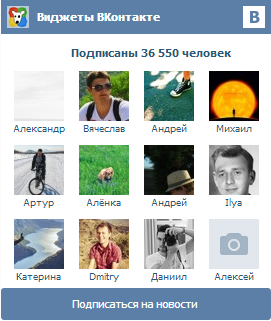
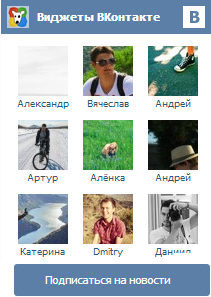
commit

diff --git a/app/css/main.css b/app/css/main.css
@@ -162,6 +162,10 @@ ul {
   font-family: "Trebuchet MSI";
   src: url(../fonts/trebucbi.ttf); }
 
+@font-face {
+  font-family: OpenSans;
+  src: url(../fonts/OpenSans-Regular.ttf); }
+
 .wrapper {
   width: 100%;
   margin: auto;
@@ -494,7 +498,7 @@ b, strong {
   margin-bottom: 20px;
   -webkit-box-sizing: border-box;
           box-sizing: border-box;
-  width: 270px;
+  width: 250px;
   overflow: hidden;
   border: 1px solid #dfdfdf; }
   .left_mnu ul {
@@ -510,9 +514,7 @@ b, strong {
   .left_mnu li {
     -webkit-box-sizing: border-box;
             box-sizing: border-box;
-    margin-bottom: 17px;
-    background: url("../img/def.png") no-repeat left center;
-    padding-left: 15px; }
+    margin-bottom: 17px; }
     .left_mnu li:last-child {
       margin-bottom: 0; }
   .left_mnu a {
@@ -527,14 +529,18 @@ b, strong {
     text-decoration: none;
     border: 1px solid transparent;
     -webkit-border-radius: 4px;
-            border-radius: 4px; }
+            border-radius: 4px;
+    background: url("../img/def.png") no-repeat left center;
+    padding-left: 17px; }
     .left_mnu a:hover {
       color: #35446e;
-      text-decoration: none; }
+      text-decoration: none;
+      background: url("../img/def2.png") no-repeat left center; }
   .left_mnu .active a {
     color: #35446e;
     text-decoration: none;
-    background: none; }
+    background: none;
+    background: url("../img/def2.png") no-repeat left center; }
 
 .about {
   -webkit-border-radius: 4px;
@@ -730,80 +736,69 @@ h1 {
   height: 136px; }
 
 .left_form {
-  width: 270px;
-  background-color: #f03226;
+  width: 250px;
   -webkit-box-sizing: border-box;
           box-sizing: border-box;
-  padding: 25px 30px 35px 30px;
   position: relative;
-  -webkit-border-radius: 4px;
-          border-radius: 4px;
-  margin-bottom: 30px; }
+  margin-bottom: 30px;
+  border: 1px solid #dfdfdf; }
+  .left_form form {
+    padding: 20px; }
   .left_form .like_h3 {
-    color: #fff;
-    font-family: Roboto;
-    font-size: 24px;
-    margin-bottom: 25px;
-    text-align: center; }
+    text-align: center;
+    font-family: "Trebuchet MS";
+    color: #35446e;
+    padding: 15px 35px;
+    font-size: 16px;
+    border-bottom: 1px solid #dfdfdf;
+    background: url("../img/h2_bg1.png") no-repeat left 15px center, url("../img/h2_bg2.png") no-repeat right 15px center;
+    border-bottom: 1px solid #dfdfdf; }
   .left_form input {
     -webkit-box-sizing: border-box;
             box-sizing: border-box;
-    height: 45px;
+    height: 36px;
     width: 100%;
-    background-color: #f03226;
+    background-color: #f4f4f4;
     border: none;
     padding: 0 18px;
-    color: #fff;
-    font-family: Roboto;
-    font-size: 15px;
-    margin-bottom: 14px;
-    border: 2px solid #fff;
-    -webkit-border-radius: 4px;
-            border-radius: 4px; }
-  .left_form input::-moz-placeholder {
-    color: #FFF; }
-  .left_form input::-webkit-input-placeholder {
-    color: #FFF; }
+    color: #6a6966;
+    font-family: OpenSans;
+    font-size: 14px;
+    margin-bottom: 4px; }
   .left_form textarea {
     -webkit-box-sizing: border-box;
             box-sizing: border-box;
     width: 100%;
     height: 105px;
-    background-color: #f03226;
+    background-color: #f4f4f4;
     border: none;
     padding: 10px 18px;
-    color: #fff;
-    font-family: Roboto;
+    color: #6a6966;
+    font-family: OpenSans;
     font-size: 15px;
-    margin-bottom: 15px;
-    border: 2px solid #fff;
-    -webkit-border-radius: 4px;
-            border-radius: 4px; }
-  .left_form textarea::-moz-placeholder {
-    color: #FFF; }
-  .left_form textarea::-webkit-input-placeholder {
-    color: #FFF; }
+    margin-bottom: 5px; }
   .left_form button {
     width: 100%;
-    height: 45px;
-    background-color: #fff;
+    height: 40px;
+    background-color: #e7d48e;
     border: none;
     text-align: center;
     -webkit-box-sizing: border-box;
             box-sizing: border-box;
-    color: #f03226;
-    font-family: RobotoB;
-    font-size: 15px;
+    color: #35446e;
+    font-size: 16px;
     line-height: 18px;
-    text-transform: uppercase;
-    -webkit-border-radius: 4px;
-            border-radius: 4px; }
+    font-family: "Trebuchet MS"; }
 
 .left_widget_vk {
-  width: 270px;
+  border: 1px solid #dfdfdf;
+  width: 250px;
   text-align: center;
   margin-top: 30px;
-  margin-bottom: 20px; }
+  margin-bottom: 20px;
+  padding: 34px 19px 20px 19px;
+  -webkit-box-sizing: border-box;
+          box-sizing: border-box; }
 
 .left_news .like_h3 {
   font-style: 18px;

diff --git a/app/sass/main.sass b/app/sass/main.sass
@@ -374,7 +374,7 @@ b, strong
 .left_mnu 
 	margin-bottom: 20px
 	box-sizing: border-box
-	width: 270px
+	width: 250px
 	overflow: hidden
 	border: 1px solid #dfdfdf
 	ul 
@@ -390,11 +390,8 @@ b, strong
 	li
 		box-sizing: border-box
 		margin-bottom: 17px
-		background: url("../img/def.png") no-repeat left center
-		padding-left: 15px
 		&:last-child 
-			margin-bottom: 0
-		
+			margin-bottom: 0	
 		
 	a 
 		color: #000
@@ -407,14 +404,18 @@ b, strong
 		text-decoration: none
 		border: 1px solid transparent
 		border-radius: 4px
+		background: url("../img/def.png") no-repeat left center
+		padding-left: 17px
 		&:hover 
 			color: #35446e
 			text-decoration: none
-	.active 
+			background: url("../img/def2.png") no-repeat left center
+	.active
 		a
 			color: #35446e
 			text-decoration: none
 			background: none  
+			background: url("../img/def2.png") no-repeat left center
 
 .about 
 	border-radius:  4px
@@ -617,76 +618,66 @@ h1
 	height: 136px
 	
 .left_form
-	width: 270px
-	background-color: #f03226
+	width: 250px
 	box-sizing: border-box
-	padding: 25px 30px 35px 30px
 	position: relative
-	border-radius:  4px
 	margin-bottom: 30px
+	border: 1px solid #dfdfdf 
+	form 
+		padding: 20px
 	.like_h3 
-		color: #fff
-		font-family: Roboto
-		font-size: 24px
-		margin-bottom: 25px
 		text-align: center
-		
+		font-family: "Trebuchet MS"
+		color: #35446e
+		padding: 15px 35px
+		font-size: 16px
+		border-bottom: 1px solid #dfdfdf
+		background: url("../img/h2_bg1.png") no-repeat left 15px center, url("../img/h2_bg2.png") no-repeat right 15px center
+		border-bottom: 1px solid #dfdfdf 
 	input 
 		box-sizing: border-box
-		height: 45px
+		height: 36px
 		width: 100%
-		background-color: #f03226
+		background-color: #f4f4f4
 		border: none
 		padding: 0 18px
-		color: #fff
-		font-family: Roboto
-		font-size: 15px
-		margin-bottom: 14px
-		border: 2px solid #fff
-		border-radius:  4px
-	input::-moz-placeholder
-		color: #FFF 
-	input::-webkit-input-placeholder
-		color: #FFF 
+		color: #6a6966
+		font-family: OpenSans
+		font-size: 14px
+		margin-bottom: 4px
 		
 	textarea 
 		box-sizing: border-box
 		width: 100%
 		height: 105px
-		background-color: #f03226
+		background-color: #f4f4f4
 		border: none
 		padding: 10px 18px
-		color: #fff
-		font-family: Roboto
+		color: #6a6966
+		font-family: OpenSans
 		font-size: 15px
-		margin-bottom: 15px
-		border: 2px solid #fff
-		border-radius:  4px
-	
-	textarea::-moz-placeholder
-		color: #FFF 
-	textarea::-webkit-input-placeholder
-		color: #FFF 
+		margin-bottom: 5px
 
 	button 
 		width: 100%
-		height: 45px
-		background-color: #fff
+		height: 40px
+		background-color: #e7d48e
 		border: none
 		text-align: center
 		box-sizing: border-box
-		color: #f03226
-		font-family: RobotoB
-		font-size: 15px
+		color: #35446e
+		font-size: 16px
 		line-height: 18px
-		text-transform: uppercase
-		border-radius:  4px
+		font-family: "Trebuchet MS"
 		
 .left_widget_vk 
-	width: 270px
+	border: 1px solid #dfdfdf 
+	width: 250px
 	text-align: center
 	margin-top: 30px
 	margin-bottom: 20px
+	padding: 34px 19px 20px 19px
+	box-sizing: border-box
 	
 .left_news 
 	.like_h3

diff --git a/app/sass/_fonts.sass b/app/sass/_fonts.sass
@@ -53,3 +53,7 @@
 @font-face
   font-family: "Trebuchet MSI"
   src: url(../fonts/trebucbi.ttf)
+
+@font-face
+  font-family: OpenSans
+  src: url(../fonts/OpenSans-Regular.ttf)
